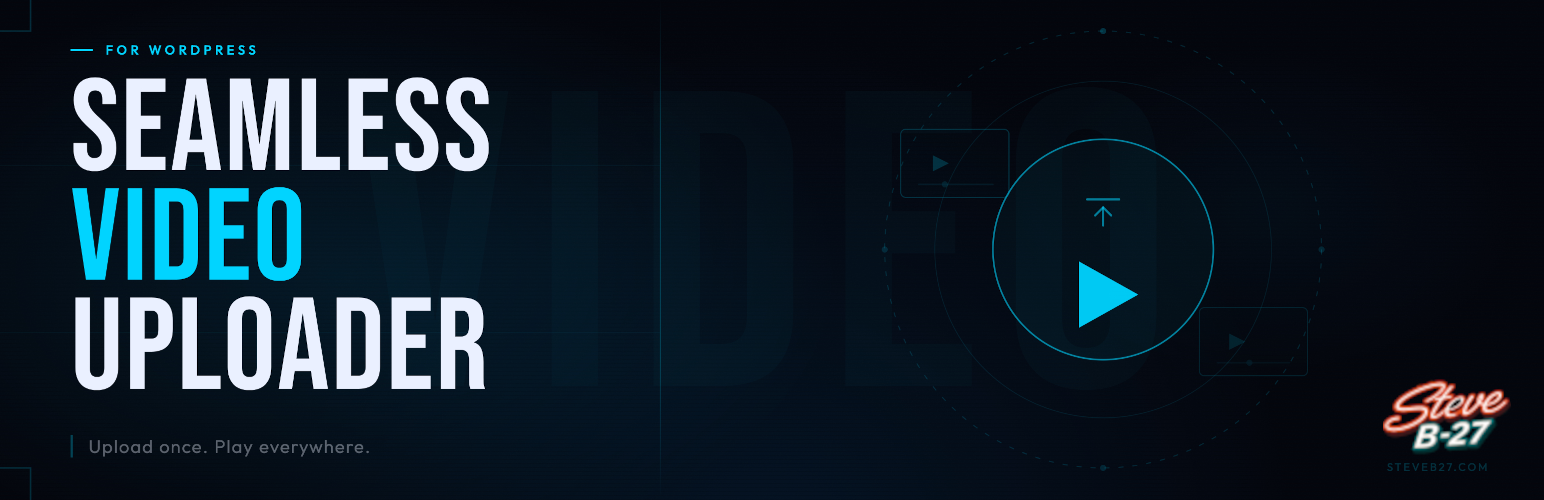
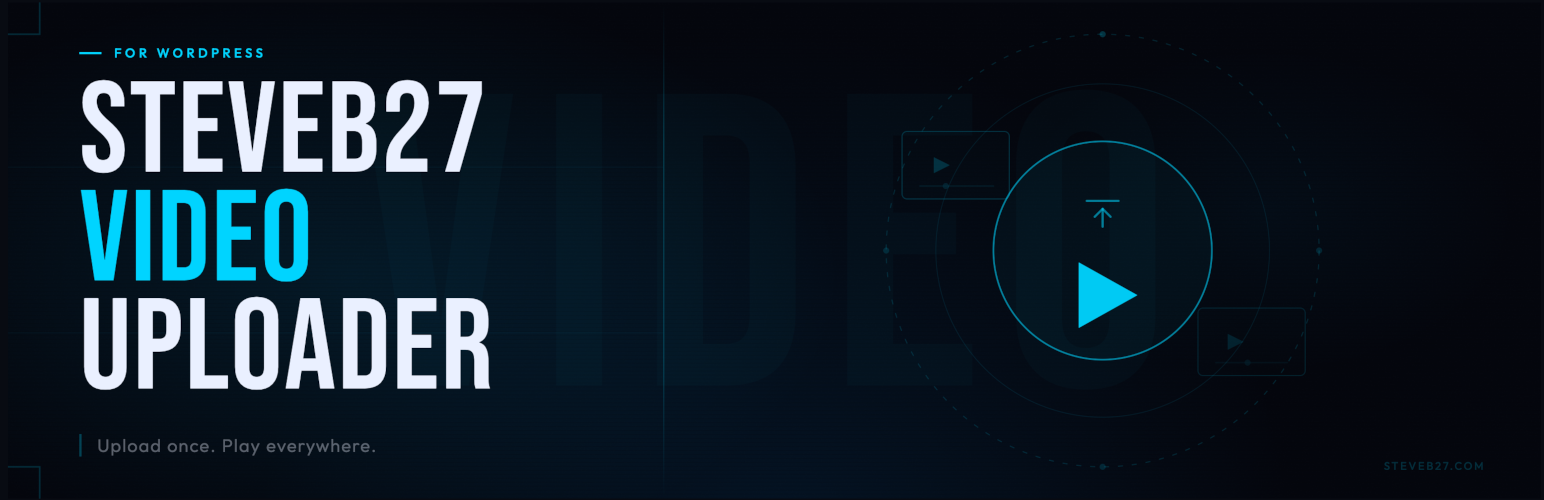
Rename to SteveB27 Video Uploader

diff --git a/marketing/banners.html b/marketing/banners.html
@@ -2,7 +2,7 @@
 <html lang="en">
 <head>
     <meta charset="UTF-8">
-    <title>Seamless Video Uploader — WP.org Assets</title>
+    <title>SteveB27 Video Uploader — WP.org Assets</title>
     <link rel="preconnect" href="https://fonts.googleapis.com">
     <link rel="preconnect" href="https://fonts.gstatic.com" crossorigin>
     <link href="https://fonts.googleapis.com/css2?family=Bebas+Neue&family=Outfit:wght@300;400;500;600&display=swap" rel="stylesheet">
@@ -277,7 +277,7 @@
 </svg>
 
 <!-- ── INSTRUCTIONS ─────────────────────────────────────────────── -->
-<p class="guide-heading">Seamless Video Uploader — WordPress.org Asset Sheet</p>
+<p class="guide-heading">SteveB27 Video Uploader — WordPress.org Asset Sheet</p>
 <p class="guide-steps">
     <strong>1.</strong> Set browser zoom to exactly <strong>100%</strong> (Cmd/Ctrl + 0). &nbsp;
     <strong>2.</strong> Screenshot each asset flush to its edges (no page chrome). &nbsp;
@@ -326,7 +326,7 @@
             <div class="b-left">
                 <div class="b-eyebrow">for WordPress</div>
                 <div class="b-title">
-                    Seamless<br>
+                    SteveB27<br>
                     <span class="b-title-accent">Video</span><br>
                     Uploader
                 </div>

diff --git a/js/admin.js b/js/admin.js
@@ -1,5 +1,5 @@
 /**
- * Seamless Video Uploader - Admin JavaScript
+ * SteveB27 Video Uploader - Admin JavaScript
  */
 
 (function($) {
@@ -141,7 +141,7 @@
          */
         if ($('.upload-php').length || $('.post-type-product').length) {
             const notice = $('<div class="notice notice-info is-dismissible">')
-                .html('<p><strong>Seamless Video Uploader:</strong> You can now upload videos (MP4, WebM, etc.) and they will automatically play muted with fullscreen controls when inserted.</p>')
+                .html('<p><strong>SteveB27 Video Uploader:</strong> You can now upload videos (MP4, WebM, etc.) and they will automatically play muted with fullscreen controls when inserted.</p>')
                 .hide()
                 .fadeIn();
 

diff --git a/css/admin.css b/css/admin.css
@@ -1,4 +1,4 @@
-/* Seamless Video Uploader - Admin Styles */
+/* SteveB27 Video Uploader - Admin Styles */
 
 /* -----------------------------------------------------------------------
    Review notice

diff --git a/css/frontend.css b/css/frontend.css
@@ -1,4 +1,4 @@
-/* Seamless Video Uploader - Frontend Styles */
+/* SteveB27 Video Uploader - Frontend Styles */
 
 .sb27-video-container {
     position: relative;

diff --git a/js/frontend.js b/js/frontend.js
@@ -1,5 +1,5 @@
 /**
- * Seamless Video Uploader - Frontend JavaScript
+ * SteveB27 Video Uploader - Frontend JavaScript
  */
 
 (function($) {

diff --git a/steveb27-video-uploader.php b/steveb27-video-uploader.php
@@ -1,14 +1,14 @@
 <?php
 /**
- * Plugin Name: Seamless Video Uploader
- * Plugin URI: https://steveb27.com/product/seamless-video-uploader/
+ * Plugin Name: SteveB27 Video Uploader
+ * Plugin URI: https://steveb27.com/product/steveb27-video-uploader/
  * Description: Enables video uploads through the media library and automatically inserts them with autoplay, muted, and fullscreen controls. Works with pages, posts, and WooCommerce product galleries.
  * Version: 1.0.2
  * Author: Steve B-27
  * Author URI: https://steveb27.com
  * License: GPL v2 or later
  * License URI: https://www.gnu.org/licenses/gpl-2.0.html
- * Text Domain: seamless-video-uploader
+ * Text Domain: steveb27-video-uploader
  * Requires at least: 6.0
  * Requires PHP: 7.2
  * Tested up to: 6.9
@@ -23,10 +23,10 @@ define('SVU_VERSION', '1.0.2');
 define('SVU_PLUGIN_FILE', __FILE__);
 define('SVU_PLUGIN_DIR', plugin_dir_path(__FILE__));
 define('SVU_PLUGIN_URL', plugin_dir_url(__FILE__));
-define('SVU_REVIEW_URL', 'https://wordpress.org/support/plugin/seamless-video-uploader/reviews/#new-post');
+define('SVU_REVIEW_URL', 'https://wordpress.org/support/plugin/steveb27-video-uploader/reviews/#new-post');
 define('SVU_AUTHOR_URL', 'https://steveb27.com');
 
-class Seamless_Video_Uploader {
+class SteveB27_Video_Uploader {
 
     private static $instance = null;
 
@@ -109,8 +109,8 @@ class Seamless_Video_Uploader {
             $class_attr,
             $poster_attr,
             esc_url($url),
-            esc_html__('Your browser does not support the video tag.', 'seamless-video-uploader'),
-            esc_attr__('Toggle Fullscreen', 'seamless-video-uploader')
+            esc_html__('Your browser does not support the video tag.', 'steveb27-video-uploader'),
+            esc_attr__('Toggle Fullscreen', 'steveb27-video-uploader')
         );
     }
 
@@ -144,8 +144,8 @@ class Seamless_Video_Uploader {
                 <span class="sb27-admin-video-label">%s</span>
             </div>',
             $title,
-            esc_attr__('Video attachment', 'seamless-video-uploader'),
-            esc_html__('VIDEO', 'seamless-video-uploader')
+            esc_attr__('Video attachment', 'steveb27-video-uploader'),
+            esc_html__('VIDEO', 'steveb27-video-uploader')
         );
     }
 
@@ -325,19 +325,19 @@ class Seamless_Video_Uploader {
                 <div class="svu-review-notice__icon">🎬</div>
                 <div class="svu-review-notice__content">
                     <p>
-                        <strong><?php esc_html_e('Seamless Video Uploader', 'seamless-video-uploader'); ?></strong> &mdash;
-                        <?php esc_html_e("You've been using the plugin for a week — thanks for sticking with it! If it's been useful, a quick review on WordPress.org would mean a lot and helps others find it.", 'seamless-video-uploader'); ?>
+                        <strong><?php esc_html_e('SteveB27 Video Uploader', 'steveb27-video-uploader'); ?></strong> &mdash;
+                        <?php esc_html_e("You've been using the plugin for a week — thanks for sticking with it! If it's been useful, a quick review on WordPress.org would mean a lot and helps others find it.", 'steveb27-video-uploader'); ?>
                     </p>
                     <p class="svu-review-notice__actions">
                         <a href="<?php echo esc_url(SVU_REVIEW_URL); ?>" target="_blank" rel="noopener noreferrer"
                            class="button button-primary svu-review-btn" data-svu-action="reviewed">
-                            ⭐ <?php esc_html_e('Leave a Review', 'seamless-video-uploader'); ?>
+                            ⭐ <?php esc_html_e('Leave a Review', 'steveb27-video-uploader'); ?>
                         </a>
                         <a href="#" class="button svu-review-btn" data-svu-action="reviewed">
-                            <?php esc_html_e('I already did!', 'seamless-video-uploader'); ?>
+                            <?php esc_html_e('I already did!', 'steveb27-video-uploader'); ?>
                         </a>
                         <a href="#" class="button-link svu-review-later" data-svu-action="later">
-                            <?php esc_html_e('Maybe later', 'seamless-video-uploader'); ?>
+                            <?php esc_html_e('Maybe later', 'steveb27-video-uploader'); ?>
                         </a>
                     </p>
                 </div>
@@ -387,9 +387,9 @@ class Seamless_Video_Uploader {
     public function add_plugin_action_links($links) {
         $extra = array(
             '<a href="' . esc_url(SVU_REVIEW_URL) . '" target="_blank" rel="noopener noreferrer">'
-            . esc_html__('Leave a Review', 'seamless-video-uploader') . '</a>',
+            . esc_html__('Leave a Review', 'steveb27-video-uploader') . '</a>',
             '<a href="' . esc_url(SVU_AUTHOR_URL) . '" target="_blank" rel="noopener noreferrer">'
-            . esc_html__('More Plugins', 'seamless-video-uploader') . '</a>',
+            . esc_html__('More Plugins', 'steveb27-video-uploader') . '</a>',
         );
         return array_merge($links, $extra);
     }
@@ -415,7 +415,7 @@ register_deactivation_hook(SVU_PLUGIN_FILE, 'svu_on_deactivation');
 // Bootstrap
 // -------------------------------------------------------------------------
 
-function seamless_video_uploader_init() {
-    return Seamless_Video_Uploader::get_instance();
+function steveb27_video_uploader_init() {
+    return SteveB27_Video_Uploader::get_instance();
 }
-add_action('plugins_loaded', 'seamless_video_uploader_init');
+add_action('plugins_loaded', 'steveb27_video_uploader_init');

diff --git a/README.md b/README.md
@@ -1,4 +1,4 @@
-# Seamless Video Uploader
+# SteveB27 Video Uploader
 
 A WordPress plugin that automatically applies autoplay, mute, loop, and a fullscreen toggle whenever a video is inserted from the media library — with no per-video configuration required. Also adds video support to WooCommerce product galleries.
 
@@ -28,8 +28,8 @@ The primary audience is users who want zero-configuration video behaviour — up
 ## File structure
 
 ```
-seamless-video-uploader/
-├── seamless-video-uploader.php   Main plugin file, all PHP logic
+steveb27-video-uploader/
+├── steveb27-video-uploader.php   Main plugin file, all PHP logic
 ├── readme.txt                    WordPress.org directory listing
 ├── css/
 │   ├── frontend.css              Public-facing video player styles
@@ -73,10 +73,10 @@ add_action( 'sb27_init', function() {
 
 ## Releases
 
-Releases are deployed automatically to WordPress.org SVN via GitHub Actions when a new release is published. The release tag must match the `Version` in `seamless-video-uploader.php` and the `Stable tag` in `readme.txt`.
+Releases are deployed automatically to WordPress.org SVN via GitHub Actions when a new release is published. The release tag must match the `Version` in `steveb27-video-uploader.php` and the `Stable tag` in `readme.txt`.
 
 **Release checklist:**
-- [ ] Bump `Version` in plugin header (`seamless-video-uploader.php`)
+- [ ] Bump `Version` in plugin header (`steveb27-video-uploader.php`)
 - [ ] Bump `Stable tag` in `readme.txt`
 - [ ] Update `Changelog` section in `readme.txt`
 - [ ] Add secrets to GitHub repo if not already set: `SVN_USERNAME`, `SVN_PASSWORD`
@@ -146,7 +146,7 @@ Screenshots must be PNG or JPG, max 1200px wide. Capture at a clean zoom level (
 ### Plugin Check tool
 
 - [ ] Install the [Plugin Check plugin](https://wordpress.org/plugins/plugin-check/) on a test site
-- [ ] Run it against Seamless Video Uploader and resolve any errors or warnings before submitting
+- [ ] Run it against SteveB27 Video Uploader and resolve any errors or warnings before submitting
 
 ### WordPress.org submission
 
